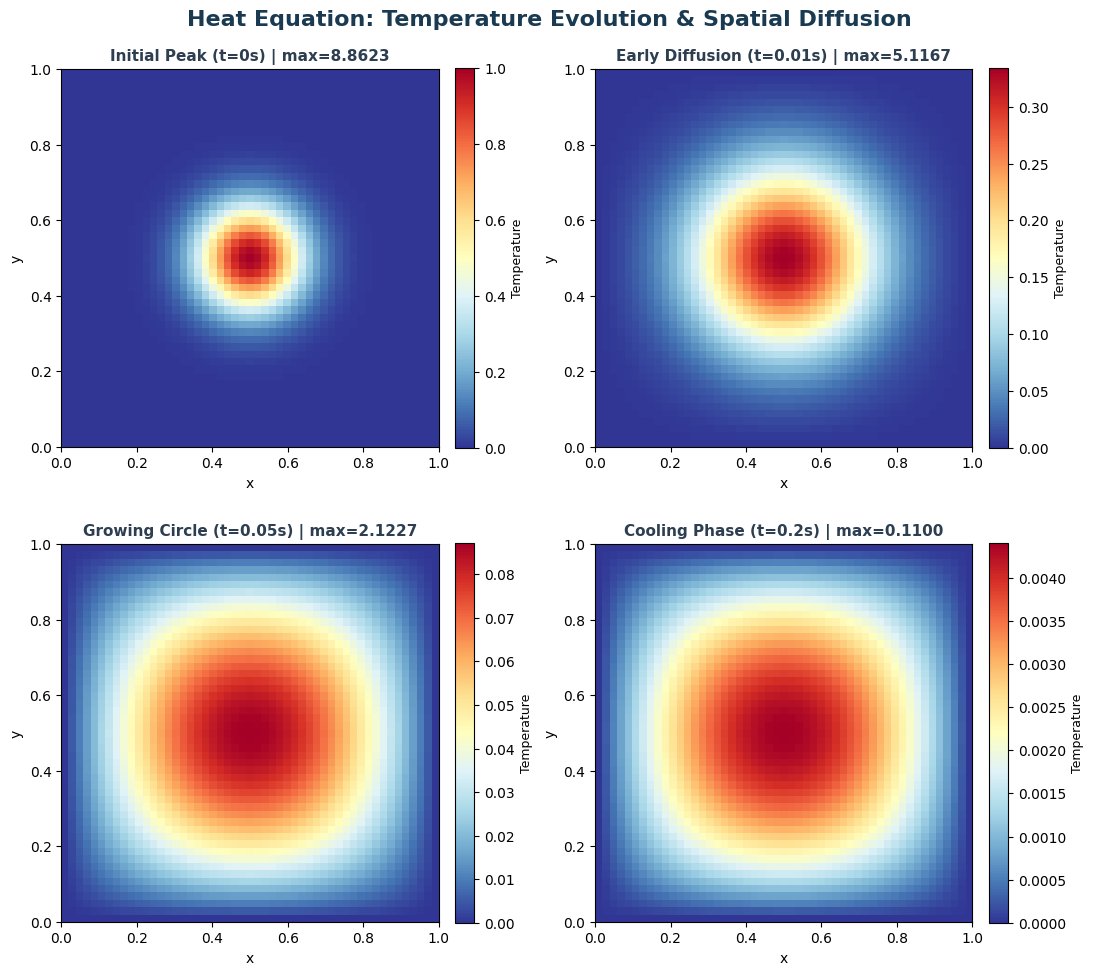
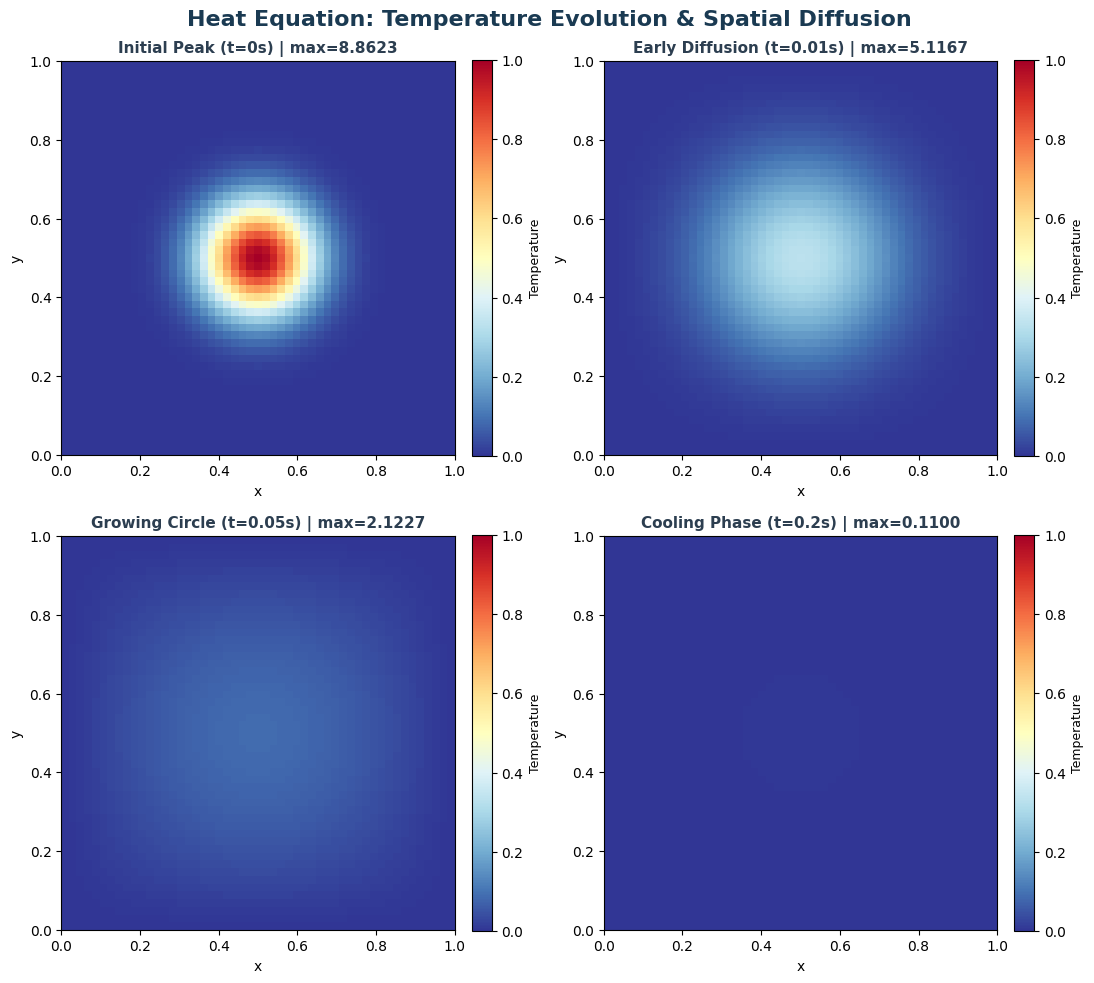
Fix: Use absolute scaling (0-1) for heatmap instead of independent per panel - shows true cooling progression

diff --git a/scripts/generate_rapport.py b/scripts/generate_rapport.py
@@ -52,7 +52,7 @@ def generate_heatmap_preview():
             target_values.append(max_val)
             print(f"    • Target t={target:.2f} → idx={idx} → actual t={actual_t:.6f} → norm={max_val:.6f}")
         
-        # CREATE FIGURE WITH 4 PANELS
+        # CREATE FIGURE WITH 4 PANELS - GLOBAL SCALING (0 to 1)
         fig, axes = plt.subplots(2, 2, figsize=(11, 10), dpi=100)
         fig.suptitle("Heat Equation: Temperature Evolution & Spatial Diffusion", 
                      fontsize=16, fontweight='bold', color='#1a3a52')
@@ -60,17 +60,18 @@ def generate_heatmap_preview():
         labels = ["Initial Peak (t=0s)", "Early Diffusion (t=0.01s)", 
                   "Growing Circle (t=0.05s)", "Cooling Phase (t=0.2s)"]
         
+        # Use ABSOLUTE scaling: 0 to 1 (same for all panels!)
+        vmin_global = 0.0
+        vmax_global = 1.0
+        
         for ax, idx, actual_t, max_v, label in zip(axes.flat, target_indices, 
                                                      target_actual_times, target_values, labels):
             # Reshape to 2D
             frame_2d = frames[idx].reshape(grid.nx, grid.ny)
             
-            # INDEPENDENT SCALING per panel
-            vmin = frame_2d.min()
-            vmax = frame_2d.max()
-            
+            # GLOBAL SCALING per panel (0 to 1)
             im = ax.imshow(frame_2d, cmap='RdYlBu_r', origin='lower', 
-                          extent=[0, 1, 0, 1], vmin=vmin, vmax=vmax)
+                          extent=[0, 1, 0, 1], vmin=vmin_global, vmax=vmax_global)
             ax.set_title(f"{label} | max={max_v:.4f}", fontweight='bold', fontsize=11, color='#2c3e50')
             ax.set_xlabel('x', fontsize=10)
             ax.set_ylabel('y', fontsize=10)
